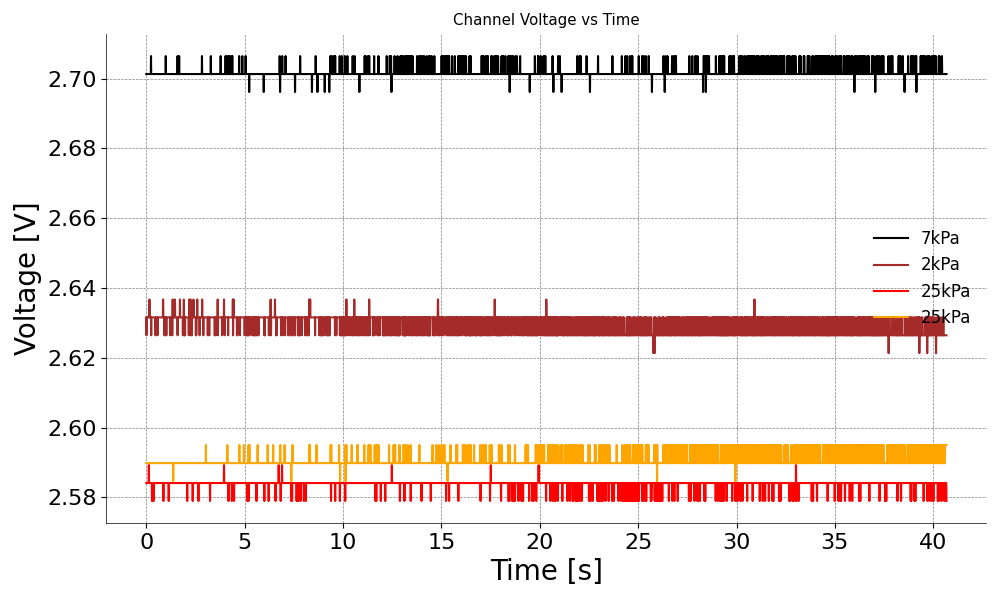
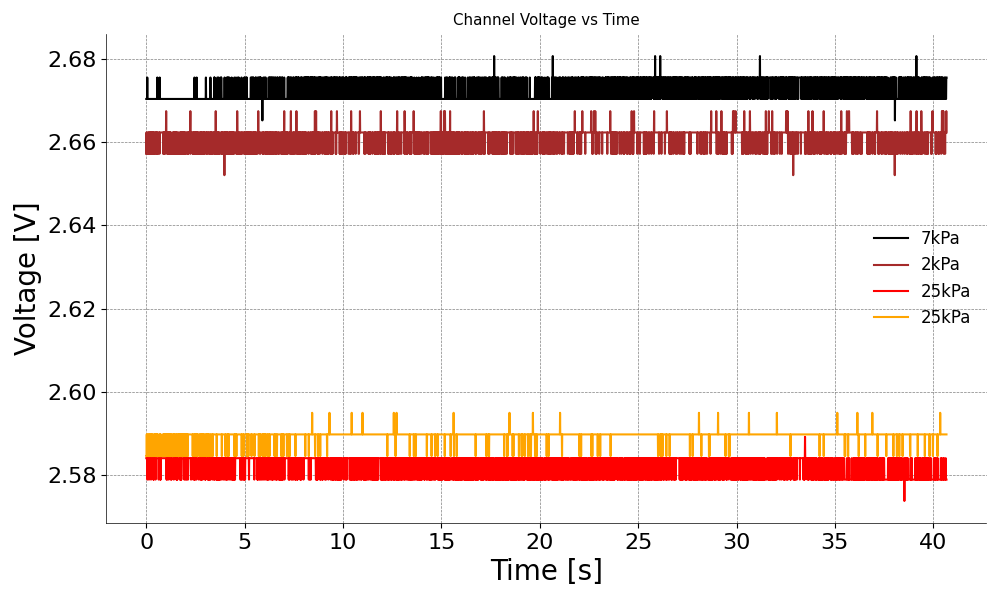
new results of tube network

diff --git a/Modules/Plot_Client_FN.py b/Modules/Plot_Client_FN.py
@@ -1937,9 +1937,9 @@ def join_all_dp_3D_logic1(quadrant_1, quadrant_2, quadrant_3, quadrant_4, dp_sen
 
     x = combined_df['resev_n1_25']
     y = combined_df['resev_n2_25']
-    z = combined_df[f'ground_p_{dp_sensor}']
+    z = combined_df[f'delta_p_{dp_sensor}']
     # Use the same column for color mapping
-    c = combined_df[f'ground_p_{dp_sensor}']
+    c = combined_df[f'delta_p_{dp_sensor}']
 
     # Create a 3D scatter plot with color mapping
     scatter = ax.scatter(x, y, z, c=c, cmap='viridis')
@@ -1964,7 +1964,7 @@ def join_all_dp_3D_logic1(quadrant_1, quadrant_2, quadrant_3, quadrant_4, dp_sen
     plt.show()
 
 
-def join_all_dp_quadrants(quadrant_1, quadrant_2, quadrant_3, quadrant_4, dp_sensor=7, save=None, show_plot=True):
+def join_all_dp_quadrants(quadrant_1, quadrant_2, quadrant_3, quadrant_4, dp_sensor=2, save=None, show_plot=True):
     myplotparams()
     df_1 = pd.read_csv(quadrant_1.folder_path +
                        r'\voltages_saleae\analog_pressures\calibrated_pressures.csv')
@@ -2010,36 +2010,31 @@ def join_all_dp_quadrants(quadrant_1, quadrant_2, quadrant_3, quadrant_4, dp_sen
 
 
 if __name__ == "__main__":
-    # folder_path = r'Tube_FN-1_8_+-_pt_30_stp20'
-    # plot = Plot(folder_path)
-
-    quadrant_1 = Plot('Tube_FN-1_8_--_pt_30_stp20')
-    quadrant_2 = Plot('Tube_FN-1_8_-+_pt_30_stp20')
-    quadrant_3 = Plot('Tube_FN-1_8_+-_pt_30_stp20')
-    quadrant_4 = Plot('Tube_FN-1_8_++_pt_30_stp20')
+    quadrant_1 = Plot(r'Tube_FN-1_8_--_pt_30_stp20')
+    quadrant_2 = Plot(r'Tube_FN-1_8_-+_pt_30_stp20')
+    quadrant_3 = Plot(r'Tube_FN-1_8_+-_pt_30_stp20')
+    quadrant_4 = Plot(r'Tube_FN-1_8_++_pt_30_stp20')
 
     save = True
     moving_average = 0
     show_plot = True
-    join_all_dp_quadrants(quadrant_1, quadrant_2, quadrant_3,
-                          quadrant_4, dp_sensor=2, save=None, show_plot=True)
-# 7. Plot all flow measurements in one graph
     # join_all_dp_quadrants(quadrant_1, quadrant_2, quadrant_3,
-    #                       quadrant_4, dp_sensor=2, save=save, show_plot=show_plot)
-    # join_all_dp_3D_logic1(quadrant_1, quadrant_2, quadrant_3,
-    #                       quadrant_4, dp_sensor=2, save=save, show_plot=show_plot)
+    #                       quadrant_4, dp_sensor=2, save=None, show_plot=True)
 
-#     # save = True
-#     # moving_average = 0
-#     # show_plot = True
-#     # join_all_dp_3D_logic1(quadrant_1, quadrant_2, quadrant_3,
-#     #                       quadrant_4, dp_sensor=2, save=save, show_plot=show_plot)
+    join_all_dp_3D_logic1(quadrant_1, quadrant_2, quadrant_3,
+                          quadrant_4, dp_sensor=2, save=save, show_plot=show_plot)
 
-#     # quadrant_1 = Plot('CV2_FN-1_8-TUBE_++_pt_30_stp20')
-#     # quadrant_2 = Plot('CV2_FN-1_8-TUBE_+-_pt_30_stp20')
-#     # quadrant_3 = Plot('CV2_FN-1_8-TUBE_-+_pt_30_stp20')
-#     # quadrant_4 = Plot('CV2_FN-1_8-TUBE_--_pt_30_stp20')
+    # quadrant_1 = Plot('CV2_FN-1_8-TUBE_++_pt_30_stp20')
+    # quadrant_2 = Plot('CV2_FN-1_8-TUBE_+-_pt_30_stp20')
+    # quadrant_3 = Plot('CV2_FN-1_8-TUBE_-+_pt_30_stp20')
+    # quadrant_4 = Plot('CV2_FN-1_8-TUBE_--_pt_30_stp20')
 
+#     folder_path = r'Tube_FN-1_8_--_pt_30_stp20'
+#     plot = Plot(folder_path)
+
+#     save = True
+#     moving_average = 0
+#     show_plot = True
 # # 1. plot the recorded absolute pressures
 #     plot.double_pressure_controller_command_overview(
 #         save, moving_average, nb_controllers=2, show_plot=show_plot)

diff --git a/Modules/mp_two_controller_old_saleae.py b/Modules/mp_two_controller_old_saleae.py
@@ -20,7 +20,6 @@ import os
 
 # Calibration
 calibration_flag = 0
-
 micro_flag = False
 calibration_folder = 'Calibration_' if calibration_flag else ''
 
@@ -34,7 +33,7 @@ nb_controllers = 2
 plateau_time = 30 if not calibration_flag else 10
 
 start_p1 = 0 if not calibration_flag else 0
-max_p1 = 200 if not calibration_flag else 10
+max_p1 = -200 if not calibration_flag else 10
 nb_steps1 = 20 if not calibration_flag else 10
 # or by number of steps: step_size = int((Pmax - Pmin) / 20.)
 
@@ -63,7 +62,7 @@ vl_init = ''
 # ~~~~~~~~~~~~~~~~~~~~~~  Experiment Parameters ~~~~~~~~~~~~~~~~~~~~~~~~~~~~~~~~~~~~~~~~~~~~~~~~~~
 # exp_folder = ("{:s}Test++".format(
 # calibration_folder))
-exp_folder = ("{:s}Tube_FN-1_8_+-_pt_30_stp20".format(
+exp_folder = ("{:s}Tube_FN-1_8_--_pt_30_stp20".format(
     calibration_folder))
 
 # ~~~~~~~~~~~~~~~~~~~~~~  Experiment Parameters ~~~~~~~~~~~~~~~~~~~~~~~~~~~~~~~~~~~~~~~~~~~~~~~~~~
